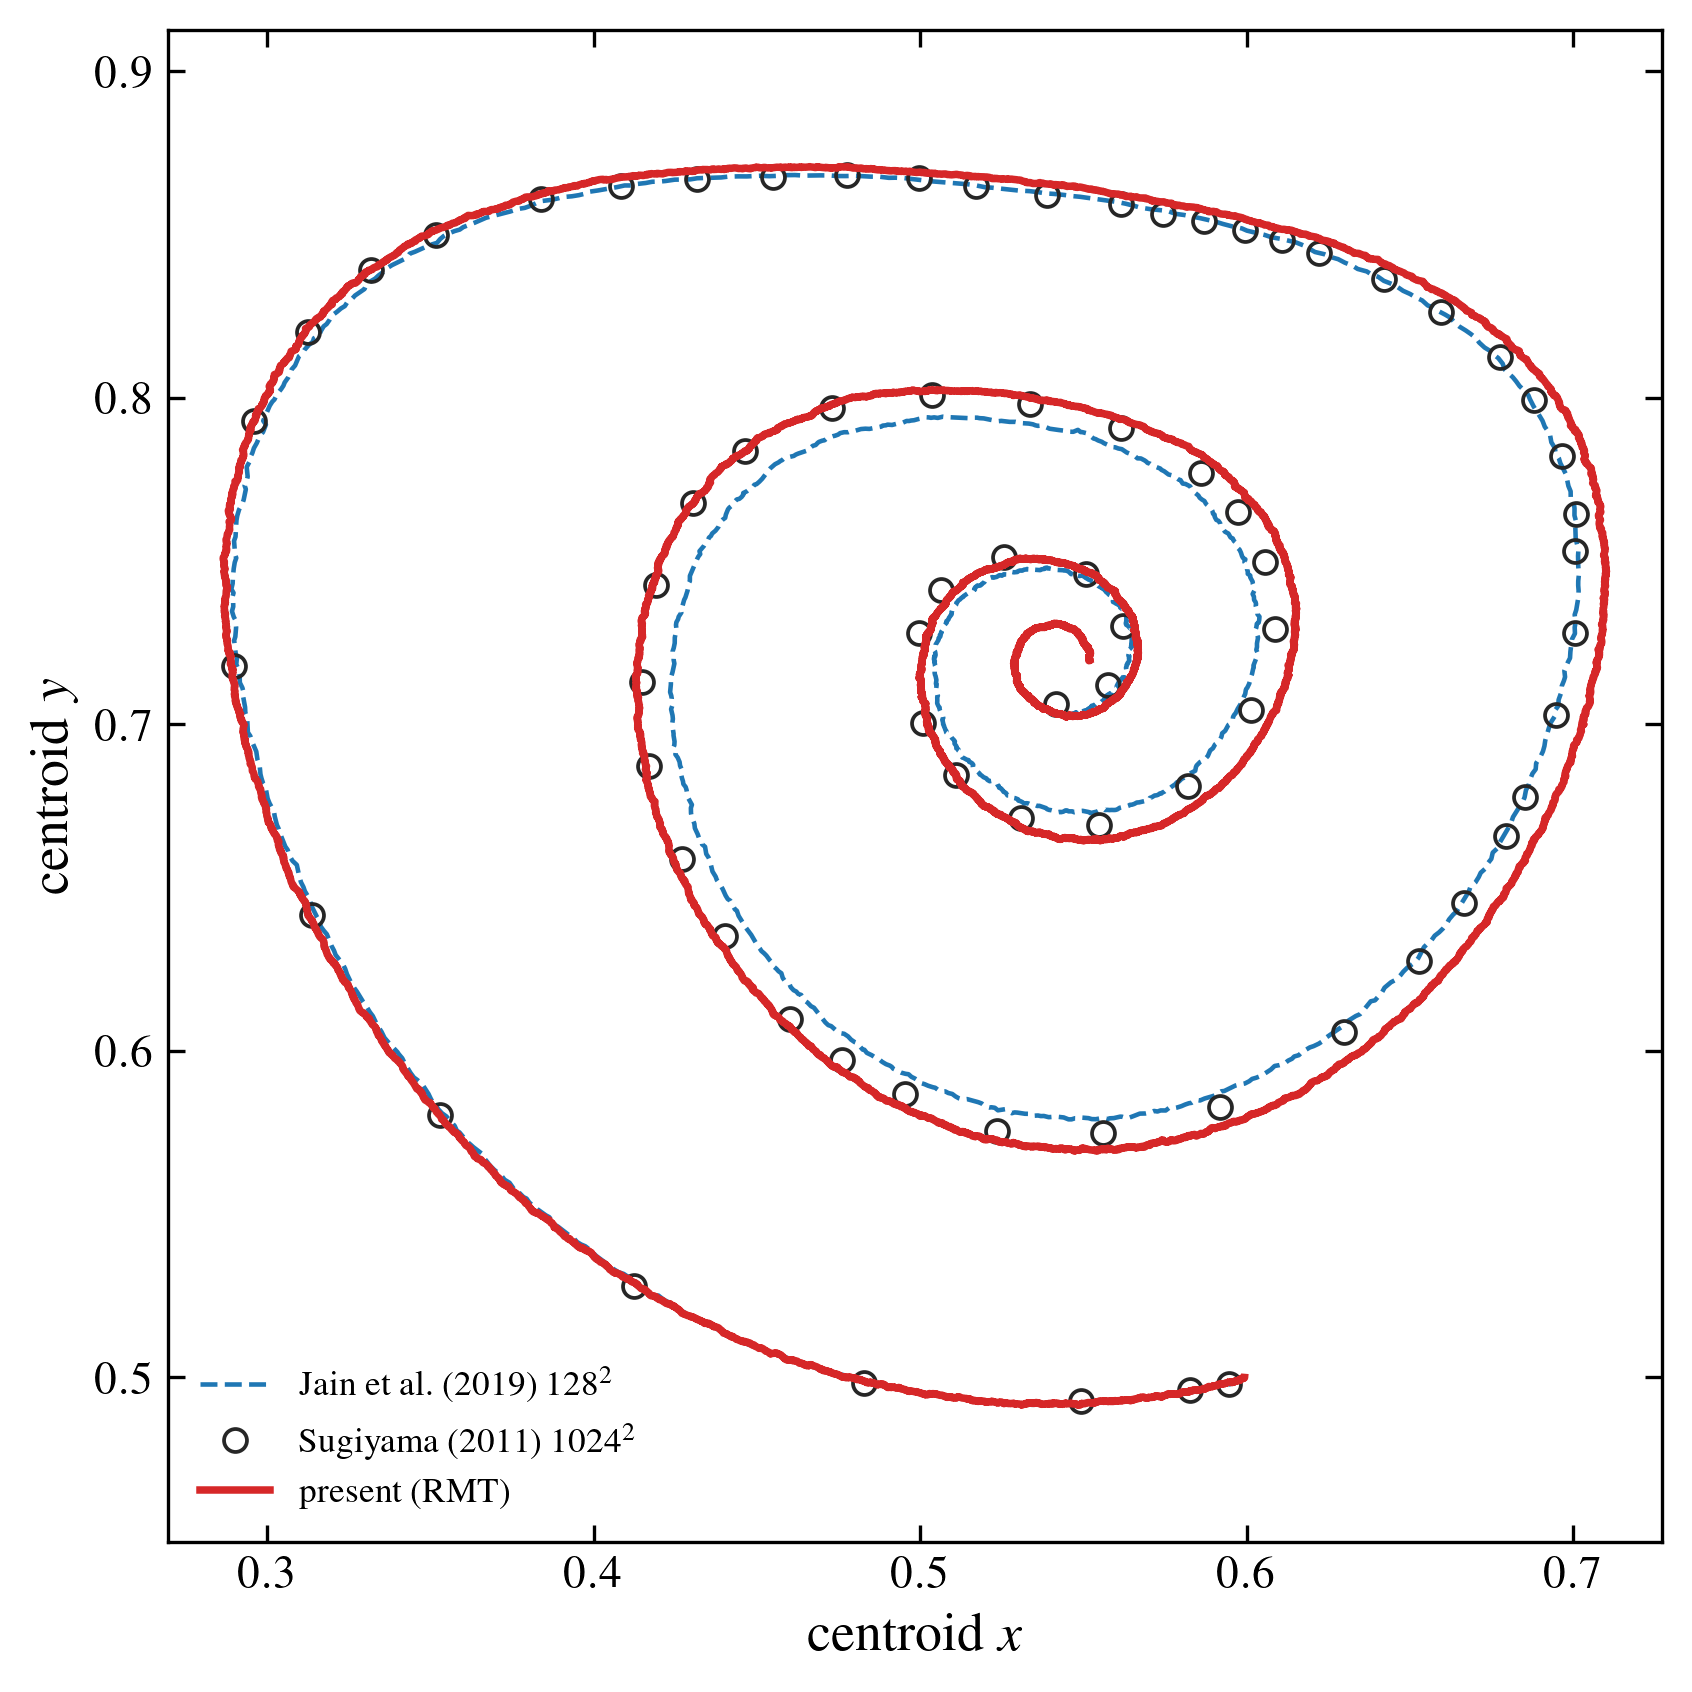
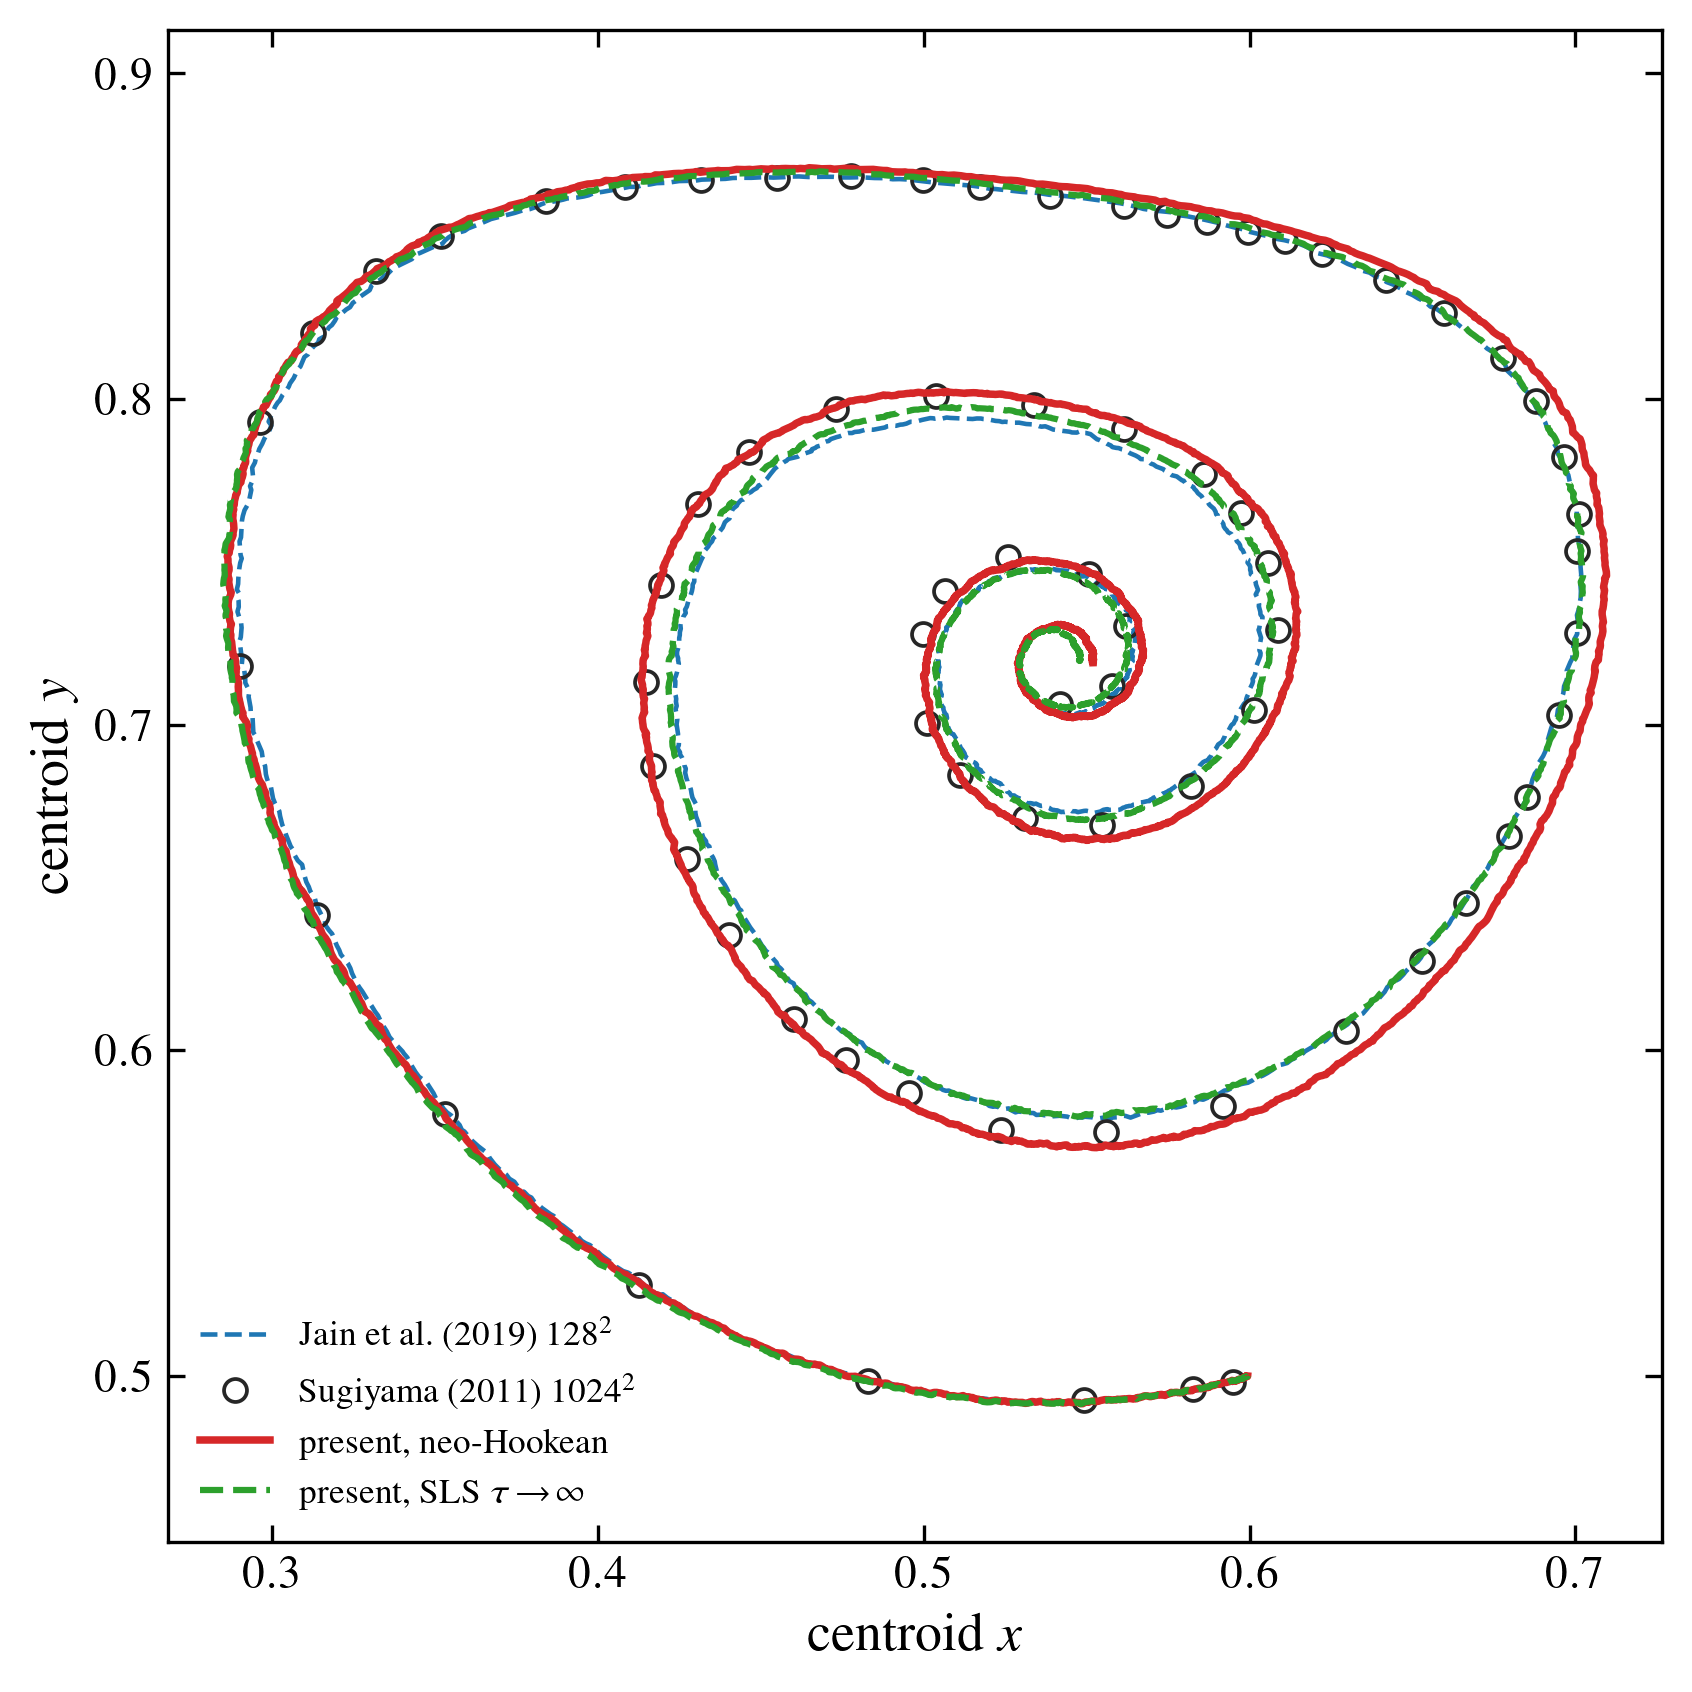
paper: overlay SLS tau->inf on the Sugiyama benchmark (fig:disc-centroid)
Drop the SLS tau->inf disc onto the lid-driven benchmark figure alongside the
neo-Hookean, so the tau->inf reduction is shown directly against the reference
data. The log-conformation SLS tracks Sugiyama on the inner spiral slightly more
closely than the direct neo-Hookean (mean nearest-point distance 2.5e-3 vs
3.1e-3): the neo-Hookean stress mu_s dev(F F^T) is built by differentiating the
reference map, which winds up under the strong inner-spiral rotation, whereas
the log-conformation scheme transports the elastic Finger tensor directly and is
more robust to that winding. Remove the now-redundant standalone lid_tauinf
figure; fold its narrative into the benchmark discussion.

diff --git a/paper/main.tex b/paper/main.tex
@@ -1097,27 +1097,25 @@ transport, not the interface or the integrator (\cref{fig:disc-centroid}). This 
 where we quantify the IMEX speedup---which grows with resolution as the direct wall solve makes
 the implicit step free---against an explicit baseline in the supplementary material.
 
-\emph{Viscoelastic reduction to elasticity.} The same lid-driven disc validates the viscoelastic
-model in its elastic limit. Running the SLS solid with its Maxwell modulus set to $\mu_s$ and no
-relaxation ($\tau\to\infty$)---so the elastic Finger tensor $\bt\to\bm F\bm F^{\!\top}$ and the
-stress $G\,\dev\bt\to\mu_s\dev\bm F\bm F^{\!\top}$---the log-conformation disc reproduces the pure
-neo-Hookean centroid trajectory to $1.1\times10^{-2}$ over the entire inward spiral
-(\cref{fig:lid-tauinf}), a direct confirmation that the elastic-strain transport carries the
-correct finite-strain elastic limit.
-
-\begin{figure}[t]\centering
-\includegraphics[width=0.5\linewidth]{figures/lid_tauinf.png}
-\caption{Viscoelastic reduction to elasticity in the lid-driven cavity: with $\tau\to\infty$ and
-$G{=}\mu_s$ the SLS (log-conformation) disc (dashed) reproduces the neo-Hookean disc (solid).
-Centroid path over $t\in[0,24]$; maximum separation $1.1\times10^{-2}$.}
-\label{fig:lid-tauinf}
-\end{figure}
+\emph{Viscoelastic reduction to elasticity.} The same lid-driven disc also validates the
+viscoelastic model in its elastic limit. Running the SLS solid with its Maxwell modulus set to
+$\mu_s$ and no relaxation ($\tau\to\infty$)---so the elastic Finger tensor $\bt\to\bm F\bm F^{\!\top}$
+and the stress $G\,\dev\bt\to\mu_s\dev\bm F\bm F^{\!\top}$---reproduces the neo-Hookean trajectory
+(\cref{fig:disc-centroid}, green dashed), confirming that the elastic-strain transport carries the
+correct finite-strain elastic limit. Notably the $\tau\to\infty$ SLS tracks the Sugiyama reference on
+the inner spiral \emph{slightly more closely} than the direct neo-Hookean does (mean nearest-point
+distance $2.5\times10^{-3}$ vs.\ $3.1\times10^{-3}$): the neo-Hookean stress
+$\mu_s\dev(\bm F\bm F^{\!\top})$ is built by differentiating the reference map, which winds up under
+the strong inner-spiral rotation, whereas the log-conformation scheme transports the elastic Finger
+tensor directly and is more robust to that winding.
 
 \begin{figure}[t]\centering
 \includegraphics[width=0.62\linewidth]{figures/soft_disc_overlay.png}
 \caption{Neo-Hookean disc in a lid-driven cavity: centroid trajectory over the inward spiral.
-Our result (red) overlays the reference of Sugiyama \emph{et al.}\ \cite{Sugiyama2011} at
-$1024^2$ (circles) and Jain \emph{et al.}\ \cite{Jain2019} at $128^2$ (blue dashed).}
+Our neo-Hookean result (red) and the SLS solid in its $\tau\to\infty$ elastic limit (green
+dashed) both overlay the reference of Sugiyama \emph{et al.}\ \cite{Sugiyama2011} at $1024^2$
+(circles) and Jain \emph{et al.}\ \cite{Jain2019} at $128^2$ (blue dashed); the log-conformation
+$\tau\to\infty$ curve tracks Sugiyama slightly more closely on the inner spiral.}
 \label{fig:disc-centroid}
 \end{figure}
 
@@ -1152,7 +1150,7 @@ We demonstrated the coupled
 viscoelastic response on a disc in a Taylor--Green vortex: $\tau\to\infty$ recovers the
 elastic dynamics, finite $\tau$ dissipates stored elastic energy, and the elastic Finger
 tensor remains positive-definite throughout. In the lid-driven cavity the $\tau\to\infty$
-limit reproduces the pure neo-Hookean disc directly (\cref{fig:lid-tauinf}).
+limit reproduces the pure neo-Hookean disc directly (\cref{fig:disc-centroid}).
 
 Relative to the closest prior work, the method differs from explicit hyperelastic RMT
 \cite{Kamrin2012,Rycroft2020,Jain2019} in both the viscoelastic constitutive transport

diff --git a/benchmarks/overlay_integrators.py b/benchmarks/overlay_integrators.py
@@ -97,10 +97,23 @@ def _render_soft_disc(runs, out_png):
     if sug1024 is not None:
         plt.plot(sug1024[:, 0], sug1024[:, 1], "o", mfc="none", mec="0.15", ms=5.5,
                  mew=0.9, ls="none", label="Sugiyama (2011) $1024^2$", zorder=3)
-    # our (IMEX) trajectory -- one thin red curve
-    ex = runs["imex"]
-    plt.plot(ex[:, 1], ex[:, 2], "-", color="tab:red", lw=1.8,
-             label="present (RMT)", zorder=4)
+    # present RMT: neo-Hookean (red) and, from the same run, the SLS solid in its
+    # tau->inf elastic limit (dark green dashed). The log-conformation SLS transports
+    # b_e directly, so it is more robust to the reference-map winding on the inner
+    # spiral than the neo-Hookean F=(grad xi)^-1 stress, and tracks Sugiyama slightly
+    # closer there (mean nearest-point distance 2.5e-3 vs 3.1e-3).
+    root = os.path.dirname(os.path.dirname(os.path.abspath(__file__)))
+    npz = os.path.join(root, "outputs", "overlay", "lid_stab_tauinf.npz")
+    if os.path.isfile(npz):
+        d = np.load(npz); neo, sls = d["neo"], d["sls"]
+        plt.plot(neo[:, 1], neo[:, 2], "-", color="tab:red", lw=1.8,
+                 label="present, neo-Hookean", zorder=4)
+        plt.plot(sls[:, 1], sls[:, 2], "--", color="tab:green", lw=1.5,
+                 label=r"present, SLS $\tau\!\to\!\infty$", zorder=5)
+    else:
+        ex = runs["imex"]
+        plt.plot(ex[:, 1], ex[:, 2], "-", color="tab:red", lw=1.8,
+                 label="present (RMT)", zorder=4)
     plt.xlabel("centroid $x$"); plt.ylabel("centroid $y$"); plt.axis("equal")
     plt.legend(frameon=False, loc="lower left", fontsize=8.5); plt.tight_layout()
     plt.savefig(out_png); plt.close()

diff --git a/benchmarks/lid_stab_and_tauinf.py b/benchmarks/lid_stab_and_tauinf.py
@@ -77,23 +77,16 @@ def main():
 
 
 def replot_split():
-    """Re-render two single-panel figures from the cached trajectories (no re-run):
-    figures/lid_tauinf.png  -- tau->inf vs neo-Hookean (main text)
-    figures/lid_staboff.png -- stabilizer off vs on      (supplementary)."""
+    """Re-render the supplementary stabilizer-faithfulness figure from the cached
+    trajectories (no re-run): figures/lid_staboff.png (stabilizer off vs on). The
+    tau->inf vs neo-Hookean comparison is drawn on the main-text benchmark figure
+    (fig:disc-centroid) directly from the same npz by overlay_integrators."""
     import matplotlib; matplotlib.use("Agg")
     sys.path.insert(0, os.path.join(ROOT, "benchmarks"))
     from _plotstyle import apply as _style; _style()
     import matplotlib.pyplot as plt
     d = np.load(os.path.join(ROOT, "outputs", "overlay", "lid_stab_tauinf.npz"))
-    neo, sls, off = d["neo"], d["sls"], d["off"]
-
-    fig, ax = plt.subplots(figsize=(5.4, 5.0))
-    ax.plot(neo[:, 1], neo[:, 2], "-", color="black", lw=2.4, label="neo-Hookean")
-    ax.plot(sls[:, 1], sls[:, 2], "--", color="red", lw=1.8, label=r"SLS, $\tau\!\to\!\infty$")
-    ax.set_xlabel("centroid $x$"); ax.set_ylabel("centroid $y$")
-    ax.set_aspect("equal"); ax.legend(loc="lower left"); fig.tight_layout()
-    fig.savefig(os.path.join(ROOT, "paper", "figures", "lid_tauinf.png"), dpi=200)
-    print("saved lid_tauinf.png  (max sep %.1e)" % maxsep(neo, sls))
+    neo, off = d["neo"], d["off"]
 
     fig, ax = plt.subplots(figsize=(5.4, 5.0))
     ax.plot(neo[:, 1], neo[:, 2], "-", color="black", lw=2.4, label="stabilizer on (imex-sl)")
